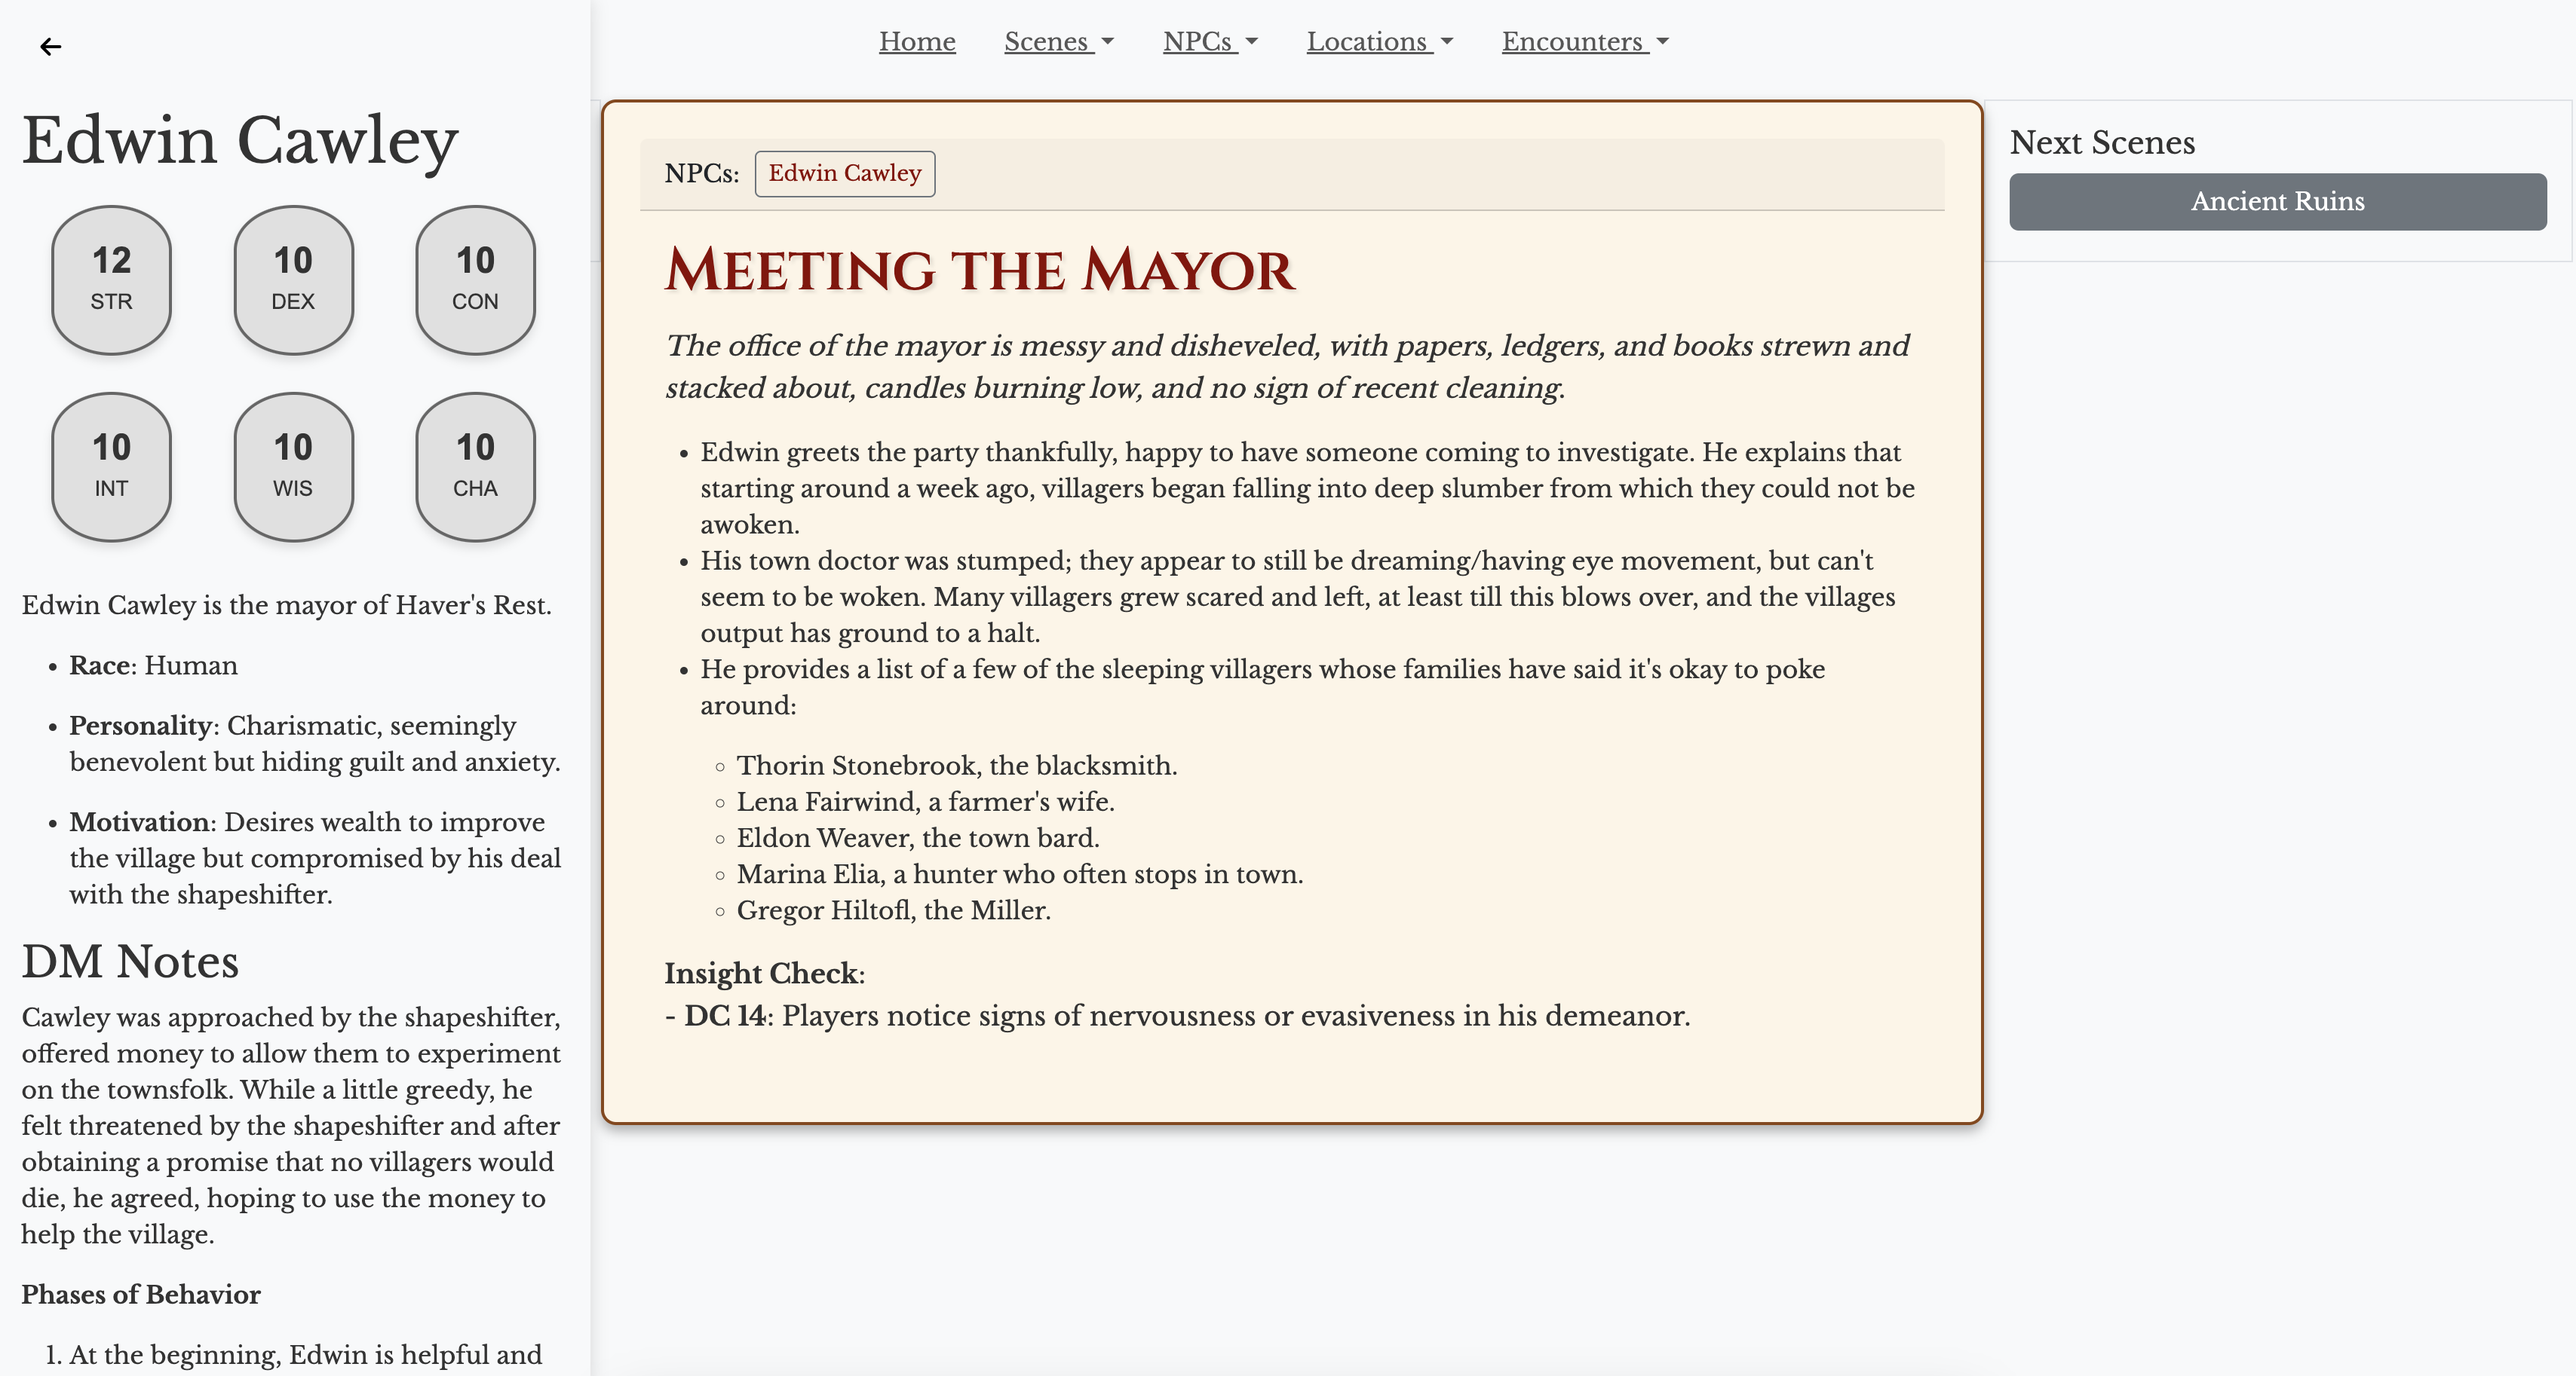
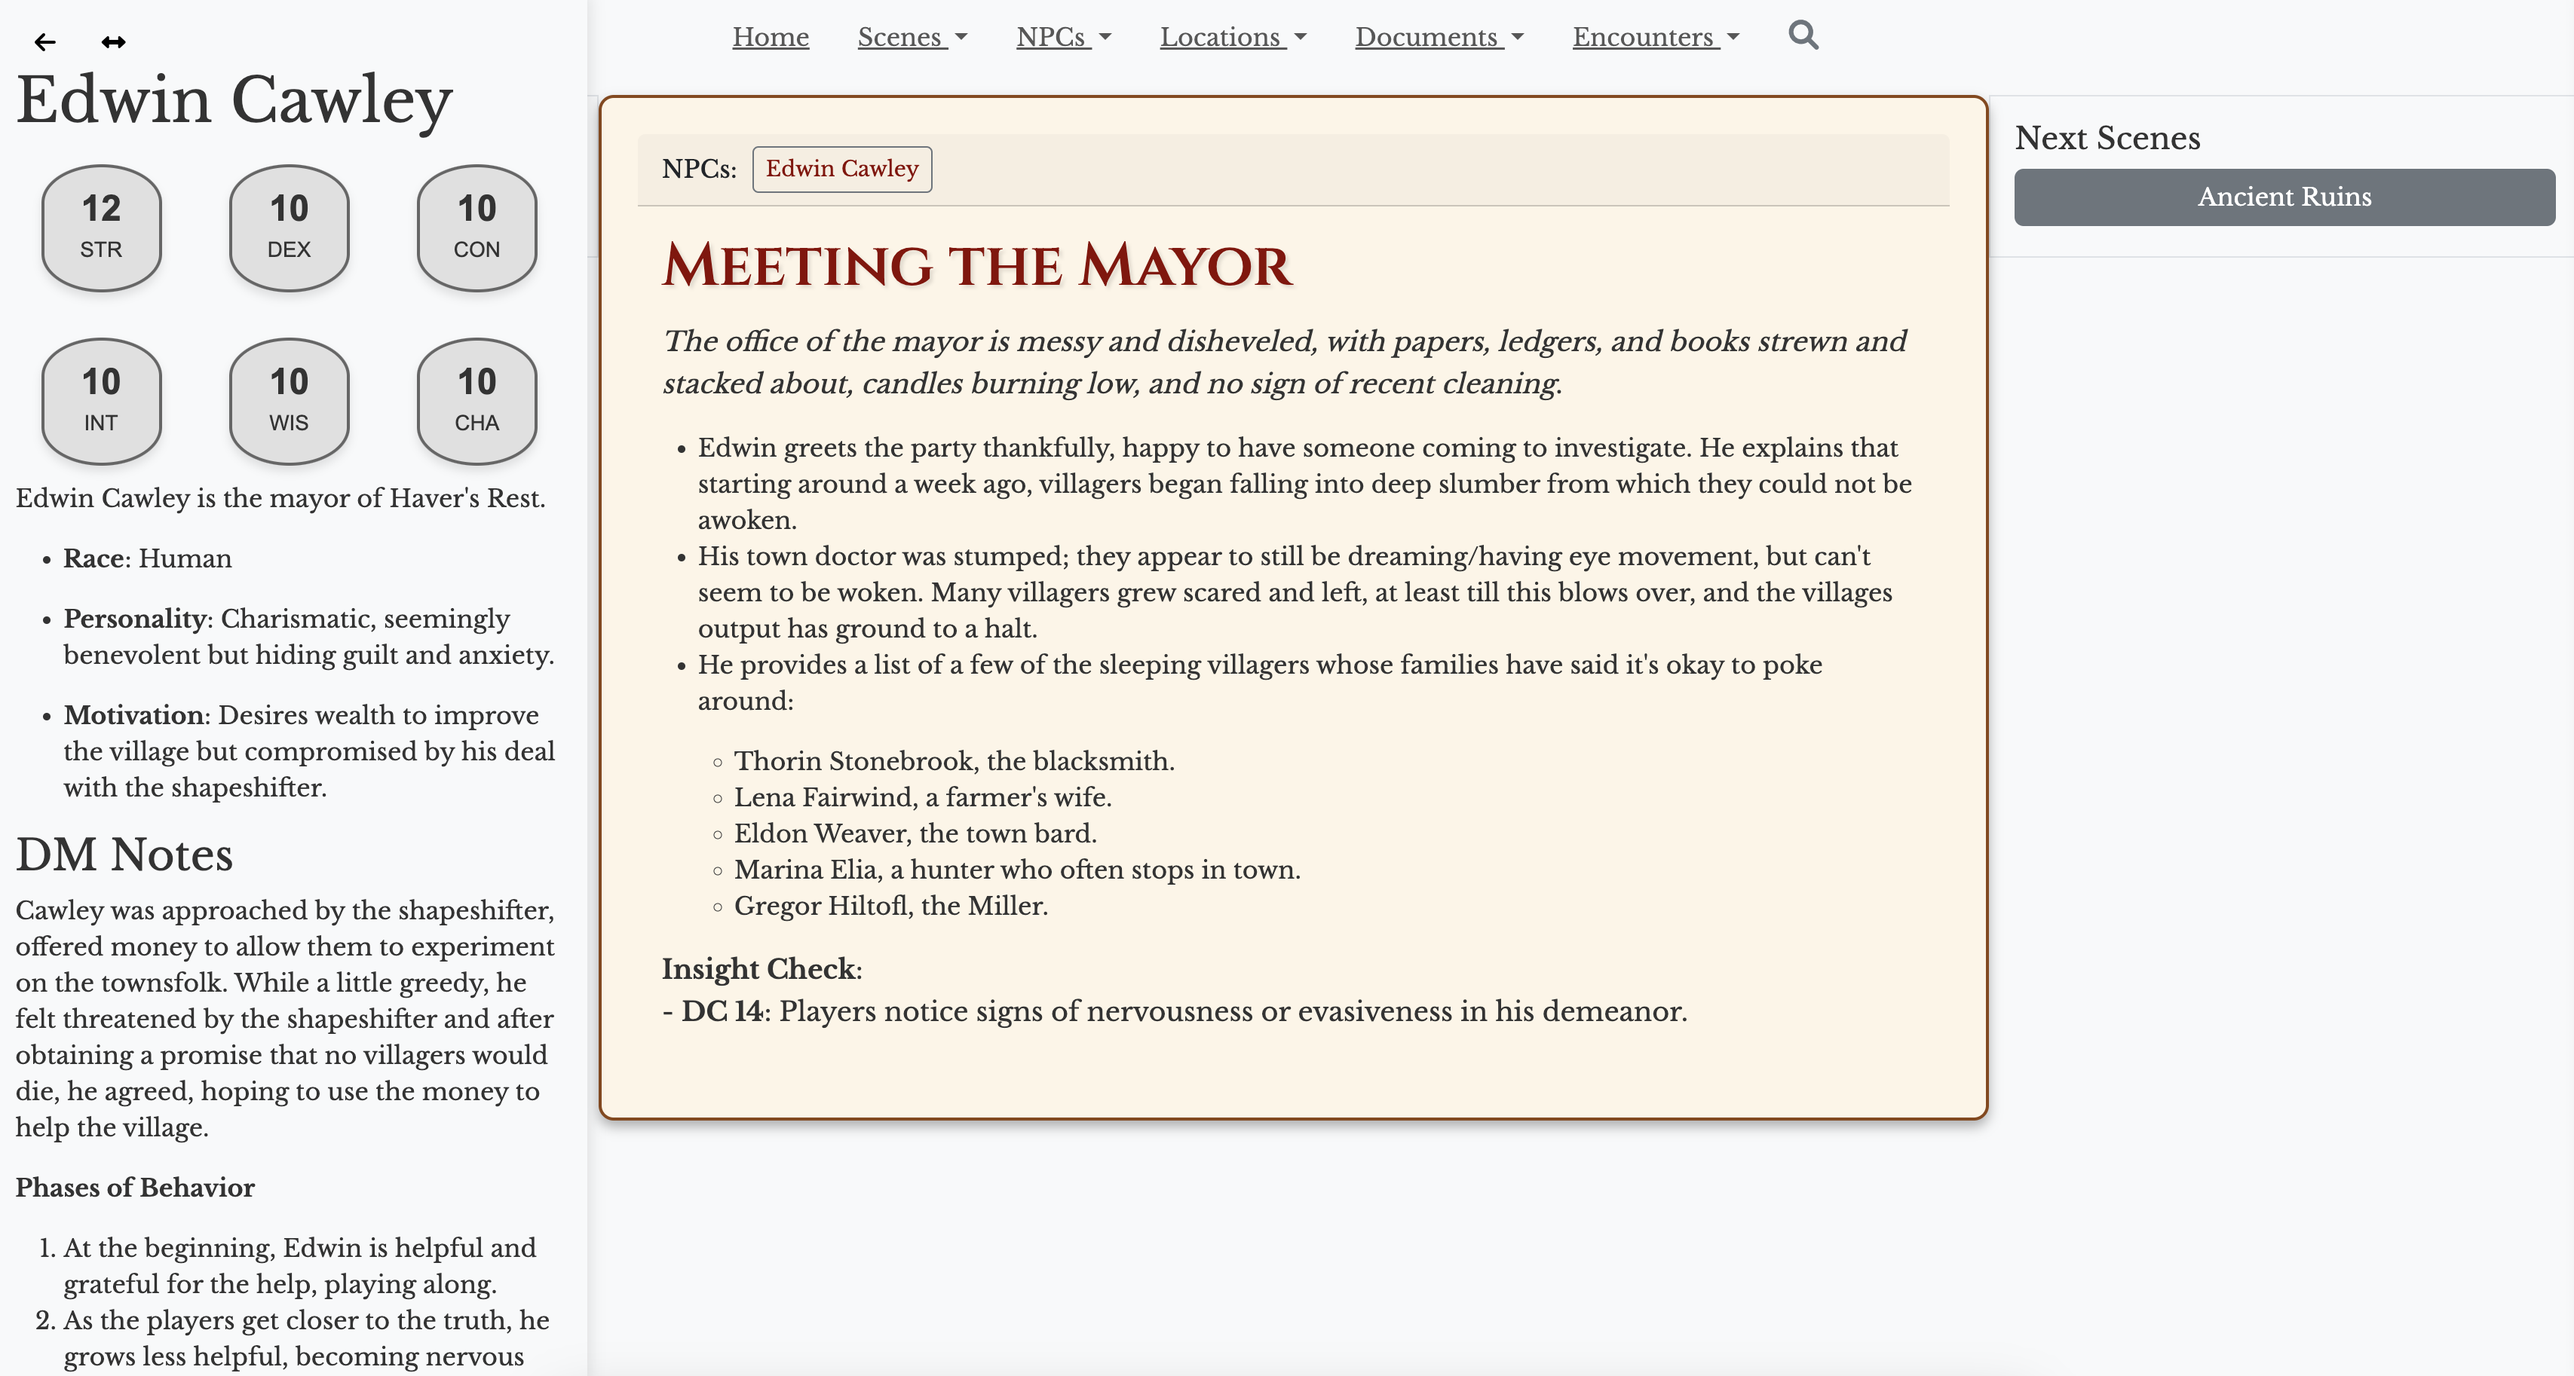
new doc images

Changed region(s): [[0.2173, 0.0, 0.9936, 0.8428], [0.0, 0.0312, 0.2173, 0.9989], [0.2794, 0.0, 0.3105, 0.0312]]

diff --git a/README.md b/README.md
@@ -91,11 +91,17 @@ python app.py --session session-name
 
 You will be taken to the (required) `intro.md` scene. Your overall screen is split into three main sections, between a navbar at the top containing all scenes, npcs, locations, and encounters. 
 
-![](/app_files/static/images/sidebar.png)
+
 
 1. The Left and Right panels contain buttons determined by the `Causal-from` and `Causal-to` keys in the frontmatter. These allow you to set up any number of other scenes you think may be useful to jump to from a given scene. At any time, you can use the `scenes` nav bar item to go to any scene. 
 2. The center panel contains a card with your Scene markdown content. At the top of the scene card are buttons for any NPCs or Locations you linked to this scene. 
-3. When you click a location or NPC link (including from the nav bar), a sidebar opens on the left of the page covering the Causal-from links, which displays the markdown content (and stats if relevant). The sidebar has a close button (right arrow), or re-clicking the same button will close the sidebar. There is also an "expand" button which expands the sidebar to 50% screenwidth, if you want to view it more fully for a while. 
+3. When you click a location or NPC link (including from the nav bar), a sidebar opens on the left of the page covering the Causal-from links, which displays the markdown content (and stats if relevant). 
+
+![](/app_files/static/images/sidebar.png)
+
+The sidebar has a close button (right arrow), or re-clicking the same button will close the sidebar. There is also an "expand" button which expands the sidebar to 50% screenwidth, if you want to view it more fully for a while. 
+![](/app_files/static/images/sidebar-2.png)
+
 4. When you click on a document link, it opens a similar sidebar on the right-hand side of the screen, also with the ability to expand to half screen width, compress, or retract.
 
 From here, it's up to you! You can navigate through scenes, and quick-check location or NPC info. 
